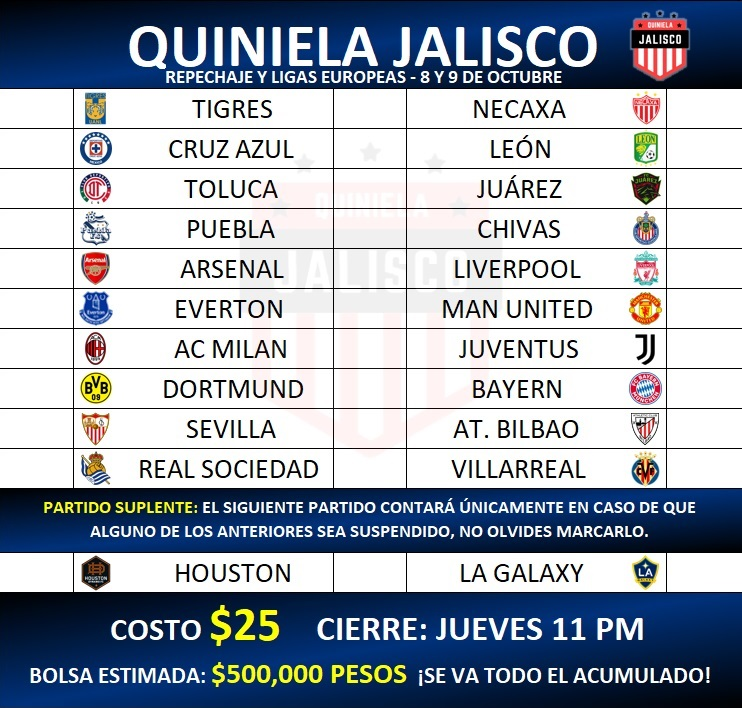
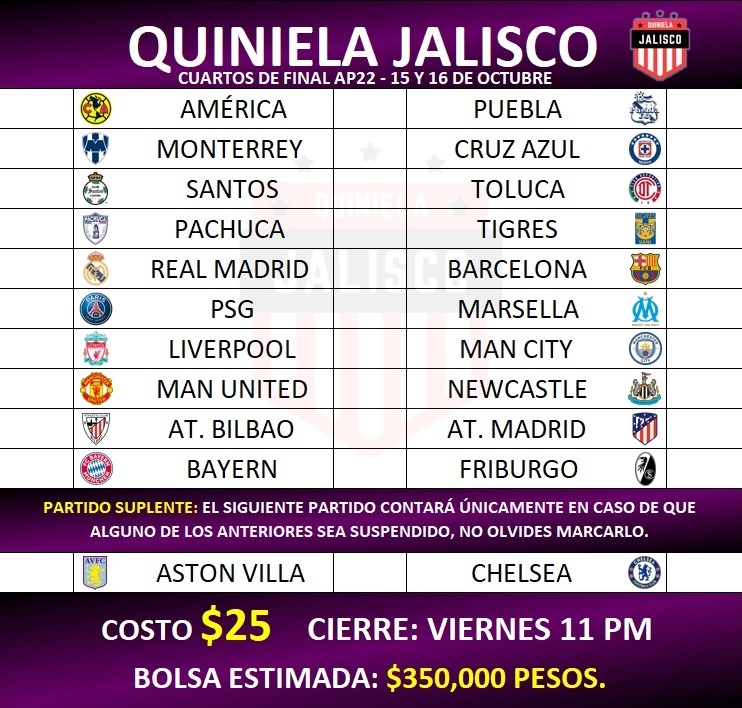
Cuartos A22

diff --git a/11/styles11.css b/11/styles11.css
@@ -78,7 +78,7 @@ body{
 }
 
 .partido .opcion-active{
-    background-color: rgb(250, 30, 30);
+    background-color: #0021ff;
 }
 
 .partido .opcion{
@@ -89,12 +89,12 @@ body{
 #text{
     font-weight: bold;
     text-align: center;
-    color: #ffac00;
+    color: white;
     margin-top: 9%;
     border: solid 1px black;
     border-radius: 0 0 14px 14px;
-    background: -webkit-linear-gradient(0.5turn, rgb(0,38,95)  ,rgb(0,0,0) 80%);
-    background: linear-gradient(0.5turn, rgb(0,38,95)  ,rgb(0,0,0) 80%);
+    background: -webkit-linear-gradient(0.49turn, rgb(97,0,98)  ,rgb(0,0,0) 80%);
+    background: linear-gradient(0.49turn, rgb(97,0,98)  ,rgb(0,0,0) 80%);
 }
 
 .text-lg{
@@ -283,24 +283,24 @@ h6{
 }
 
 #bolsatxt:before{
-    content:'';
+    content:'Bolsa estimada: ';
     white-space: pre;
 }
 
 #cantidad:before{
-    content:'¡Se reparte todo el acumulado! \A';
+    content:'$350,000 pesos';
     color: yellow;
     white-space:pre;
 }
 
 #sub1:before{
-    content:'Bolsa estimada: ';
+    content:'';
     color: white;
     white-space:pre;
 }
 
 #sub2:before{
-    content:'$500,000 pesos ';
+    content:'';
     color: yellow;
     white-space:pre;
 }

diff --git a/index.html b/index.html
@@ -6,7 +6,7 @@
     <meta name="viewport" content="width=device-width, initial-scale=1.0, user-scalable=no">
     <meta name="description" content="Quiniela Liga MX - ¡Registra aquí tus quinielas! - Quiniela Jalisco">
     <meta name="keywords" content="Quiniela, Liga MX, Apostar, Pronósticos">
-    <title>Quiniela Liga MX - Repechaje</title>
+    <title>Quiniela Liga MX - Liguilla</title>
     <link href="https://fonts.googleapis.com/css2?family=Roboto&display=swap" rel="stylesheet">
     <link rel="stylesheet" href="https://cdn.jsdelivr.net/npm/bootstrap@5.2.0/dist/css/bootstrap.min.css" crossorigin="anonymous">
     <link href="https://fonts.googleapis.com/icon?family=Material+Icons" rel="stylesheet">
